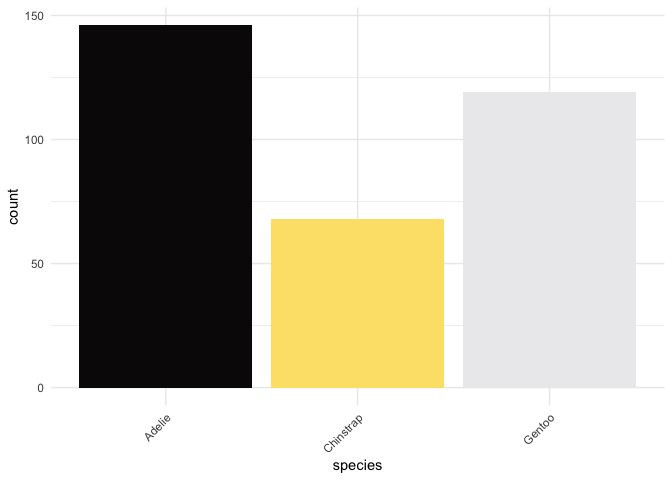
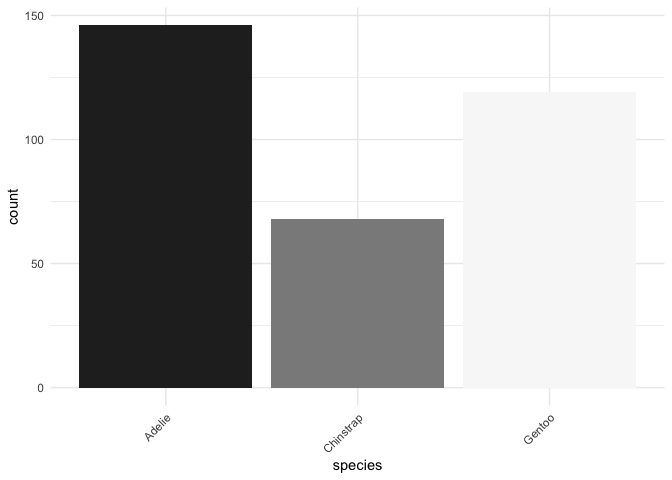
updated README and palette colors

Changed region(s): [[0.4062, 0.4375, 0.6875, 0.8125]]

diff --git a/README.md b/README.md
@@ -52,12 +52,12 @@ ggplot(penguins, aes(bill_depth_mm, bill_length_mm, color = species)) +
 ### Color by numeric variable
 
 Be content with a palette based on
-[Lover](https://en.wikipedia.org/wiki/Lover_(album))
+[Fearless](https://en.wikipedia.org/wiki/Fearless_(Taylor%27s_Version))
 
 ``` r
 ggplot(penguins , aes(bill_depth_mm, bill_length_mm,color = bill_length_mm)) +
   geom_point(size = 4) +
-  scale_color_taylor(discrete = FALSE, palette ="lover")+
+  scale_color_taylor(discrete = FALSE, palette ="fearless")+
   theme_minimal()
 ```
 
@@ -65,27 +65,27 @@ ggplot(penguins , aes(bill_depth_mm, bill_length_mm,color = bill_length_mm)) +
 
 ### Fill by discrete variable
 
-Pop with color from [Speak Now](https://en.wikipedia.org/wiki/Speak_Now)
+Pop with color from [Lover](https://en.wikipedia.org/wiki/Lover_(album))
 
 ``` r
-ggplot(penguins, aes(species, fill = species)) +
+ggplot(mpg, aes(manufacturer, fill = manufacturer)) +
   geom_bar() +
   theme_minimal()+
   theme(axis.text.x = element_text(angle = 45, hjust = 1)) +
-  scale_fill_taylor(palette = "speakNow", guide = "none")
+  scale_fill_taylor(palette = "lover", guide = "none")
 ```
 
 <img src="man/figures/README-example-fill-1.png" width="100%" />
 
-Or if you prefer the live recording of the [World
-Tour](https://en.wikipedia.org/wiki/Speak_Now_World_Tour_%E2%80%93_Live)
+Or if you prefer modern Swift,
+[Folklore](https://en.wikipedia.org/wiki/Folklore_(Taylor_Swift_album))
 
 ``` r
 ggplot(penguins, aes(species, fill = species)) +
   geom_bar() +
   theme_minimal()+
   theme(axis.text.x = element_text(angle = 45, hjust = 1)) +
-  scale_fill_taylor(palette = "speakNowLive", guide = "none")
+  scale_fill_taylor(palette = "folklore", guide = "none")
 ```
 
 <img src="man/figures/README-example-fill2-1.png" width="100%" />
@@ -127,7 +127,7 @@ ggplot(penguins, aes(species, fill = species)) +
 ![`lover`](https://upload.wikimedia.org/wikipedia/en/c/cd/Taylor_Swift_-_Lover.png)
 
 `lover` =
-“\#ff5cc”,“\#b8396b”,“\#48433b”,“\#eccfe8”,“\#76bae0”,“\#b18e7e”
+“\#b8396b”,“\#ffd1d7”,“\#fff5cc”,“\#76bae0”,“\#b28f81”,“\#54483e”
 
 ![`folklore`](https://upload.wikimedia.org/wikipedia/en/f/f8/Taylor_Swift_-_Folklore.png)
 
